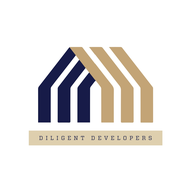
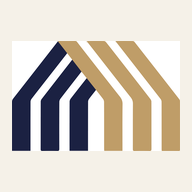
Add files via upload

diff --git a/index.html b/index.html
@@ -5376,7 +5376,7 @@ div[style*="position:fixed"][style*="inset:0"] {
       <div style="font-size:10px;letter-spacing:2px;color:var(--gold);text-transform:uppercase;margin-top:3px;font-weight:600;">Where Quality Meets Home</div>
       <div class="auth-title" style="margin-top:18px;">Welcome to Your Home Portal</div>
       <div class="auth-subtitle">Enter your address and unit to get started</div>
-      <div id="custAuthVersion" style="font-size:9px;color:rgba(13,31,60,0.3);margin-top:6px;">v325</div>
+      <div id="custAuthVersion" style="font-size:9px;color:rgba(13,31,60,0.3);margin-top:6px;">v326</div>
     </div>
     <div class="auth-body">
       <div class="auth-error" id="custAuthError"></div>
@@ -5843,7 +5843,7 @@ div[style*="position:fixed"][style*="inset:0"] {
     </ul>
     <div class="office-sidebar-footer">
       <button class="btn-logout" onclick="doLogout()">Logout</button>
-      <button id="resetDataBtn" onclick="_openResetTool()" style="display:none;width:100%;margin-top:10px;background:none;border:1px solid rgba(192,57,43,0.5);color:#e57368;border-radius:8px;padding:8px;font-size:11px;font-weight:600;cursor:pointer;">⚠️ Fresh start (wipe test data)</button><div id="appVersionLabel" style="text-align:center;font-size:10px;color:rgba(255,255,255,0.35);margin-top:8px;letter-spacing:0.5px;">v325</div>
+      <button id="resetDataBtn" onclick="_openResetTool()" style="display:none;width:100%;margin-top:10px;background:none;border:1px solid rgba(192,57,43,0.5);color:#e57368;border-radius:8px;padding:8px;font-size:11px;font-weight:600;cursor:pointer;">⚠️ Fresh start (wipe test data)</button><div id="appVersionLabel" style="text-align:center;font-size:10px;color:rgba(255,255,255,0.35);margin-top:8px;letter-spacing:0.5px;">v326</div>
     </div>
   </div>
 
@@ -6811,7 +6811,7 @@ div[style*="position:fixed"][style*="inset:0"] {
 </div>
 
 
-<script>var APP_VERSION = 'v325';
+<script>var APP_VERSION = 'v326';
 
 // ════════════════════════════════════════════
 // STORAGE LAYER — direct read/write, no caching races
@@ -14836,11 +14836,21 @@ function _notifyTaskStakeholders(t, opts) {
   if (t.assignee2Id) targets.push(t.assignee2Id);
   (t.followers || []).forEach(function(f) { targets.push(f); });
   if (t.ownerId) targets.push(t.ownerId);
+  var who = (currentUser && currentUser.name) ? currentUser.name : 'Someone';
+  var title = (t && t.title) ? t.title : 'a task';
+  // Build a clear message if the caller didn't provide one.
+  var text = opts.text;
+  if (!text) {
+    if (opts.type === 'assigned') text = who + ' assigned you: ' + title;
+    else if (opts.type === 'created') text = who + ' created a task: ' + title;
+    else if (opts.type === 'comment') text = who + ' commented on: ' + title;
+    else if (opts.type === 'status') text = who + ' updated: ' + title;
+    else if (opts.type === 'due') text = 'Reminder: ' + title;
+    else text = who + ' updated: ' + title;
+  }
   targets.forEach(function(uid) {
     if (!uid || seen[uid]) return; seen[uid] = 1;
-    // createNotification now sends the push automatically (universal), so pass a
-    // nice push title based on the task.
-    createNotification(uid, { type: opts.type, text: opts.text, taskId: opts.taskId, pushTitle: (t && t.title) ? t.title : 'Task update' });
+    createNotification(uid, { type: opts.type, text: text, taskId: opts.taskId, pushTitle: 'Diligent Developers \u2022 ' + title });
   });
 }
 

diff --git a/sw.js b/sw.js
@@ -1,6 +1,6 @@
 // Diligent Developers — Service Worker
 // IMPORTANT: bump CACHE_VERSION every time you deploy a new version
-const CACHE_VERSION = 'v325';
+const CACHE_VERSION = 'v326';
 const CACHE_NAME = 'dd-platform-' + CACHE_VERSION;
 
 // Install — activate immediately